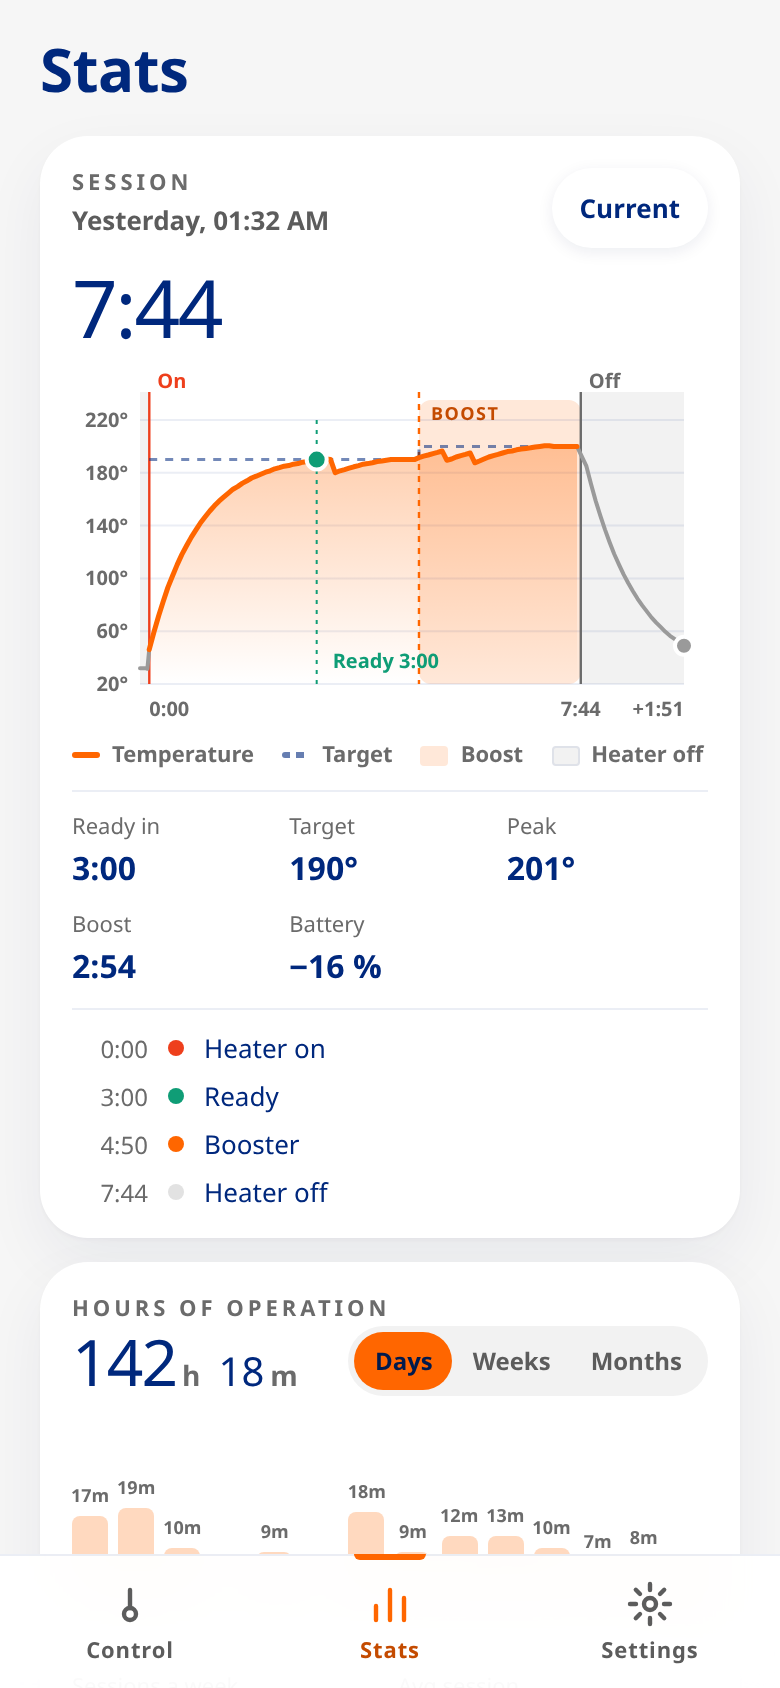
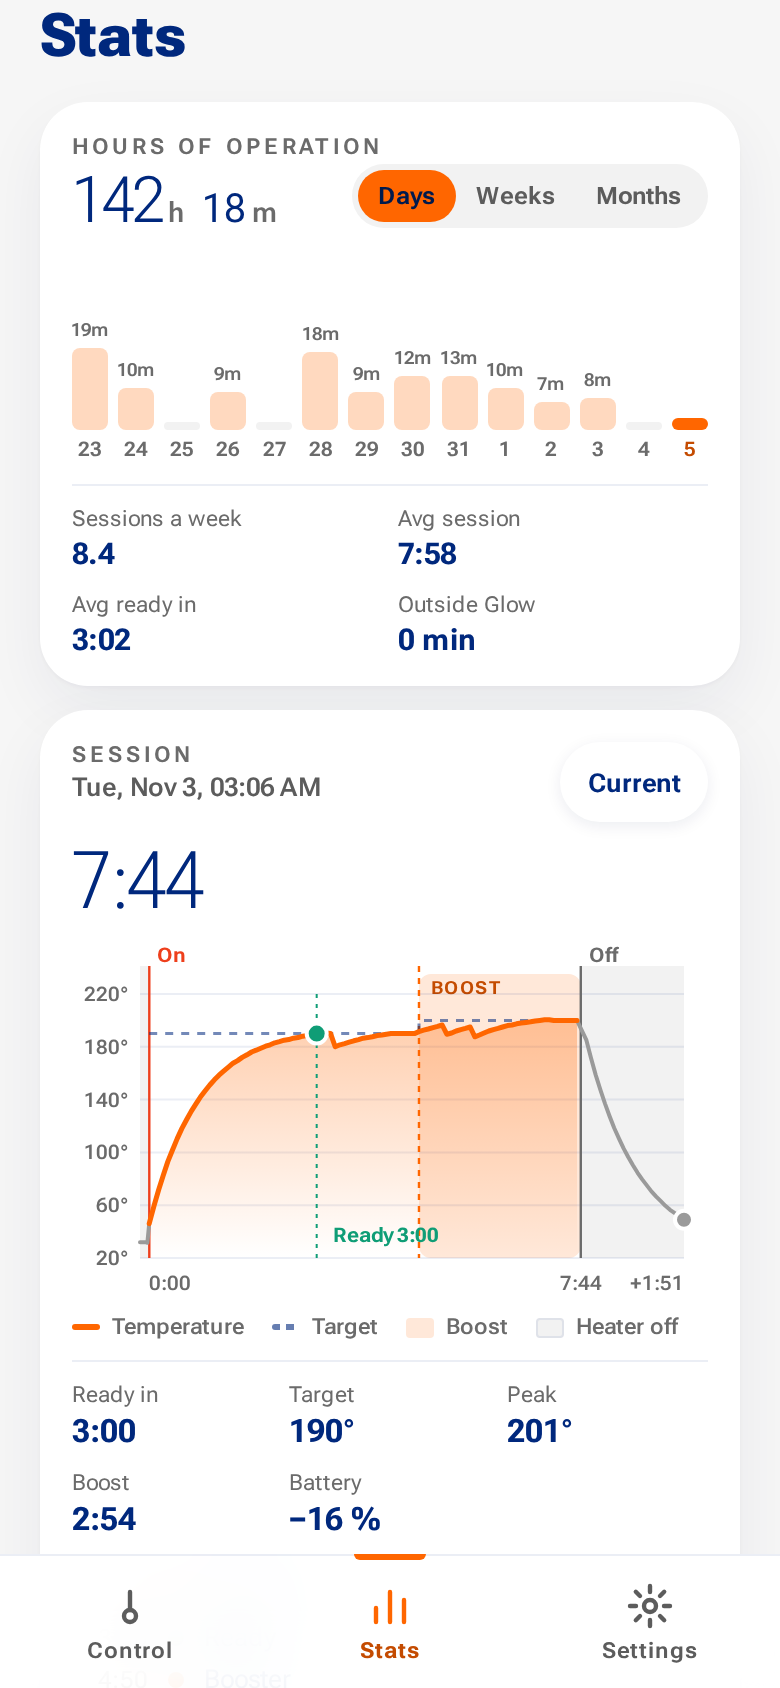
Stats: Hours of operation first, the session below it
A session picked from the history scrolls its card into view instead of the page top.

diff --git a/src/screens/Stats.svelte b/src/screens/Stats.svelte
@@ -130,6 +130,7 @@
     return { before: part(0, a), on: part(a, b), after: part(b, values.length - 1) };
   }
 
+  // The session card, below Hours of operation: a session picked from the history scrolls it into view.
   let top: HTMLElement | undefined = $state();
   function open(s: SessionSummary) {
     tap();
@@ -139,50 +140,11 @@
 </script>
 
 <div class="screen">
-  <header class="rise" bind:this={top}>
+  <header class="rise">
     <h1>Stats</h1>
   </header>
 
-  {#if shown}
-    <section class="card session rise d1">
-      <div class="s-head">
-        <div>
-          <div class="label">{running ? 'Current session' : shown.id === sessions.list[0]?.id ? 'Last session' : 'Session'}</div>
-          <div class="s-when">{dayName(shown.id)}, {when(shown.id)}</div>
-        </div>
-        {#if picked !== null && sessions.active}
-          <button type="button" class="pill press" onclick={() => { tap(); picked = null; }}>Current</button>
-        {:else if status}
-          <div class="chip" class:ready={status === 'Ready'}><span></span>{status}</div>
-        {/if}
-      </div>
-      <div class="big num">{mmss(lengthOf(shown, usage.now))}</div>
-
-      <SessionChart summary={shown} {detail} {unit} {running} />
-
-      <div class="facts num">
-        <div><span>Ready in</span><strong>{readyAtOnce(shown) ? 'At once' : shown.readySec === null || shown.joined ? '–' : mmss(shown.readySec)}</strong></div>
-        <div><span>Target</span><strong>{deg(shown.target)}</strong></div>
-        {#if shown.live}<div><span>Peak</span><strong>{deg(shown.peak)}</strong></div>{/if}
-        <div><span>Boost</span><strong>{boostSec(shown) >= 1 ? mmss(boostSec(shown)) : '–'}</strong></div>
-        {#if used(shown) !== null}<div><span>Battery</span><strong>{used(shown) ? `−${used(shown)} %` : '–'}</strong></div>{/if}
-        {#if shown.airSec}<div><span>Air</span><strong>{mmss(shown.airSec)}</strong></div>{/if}
-      </div>
-
-      <ol class="events num">
-        {#each events as e, i (i)}
-          <li class={e.tone}><span class="e-t">{mmss(e.t)}</span><span class="e-dot"></span>{e.text}</li>
-        {/each}
-      </ol>
-    </section>
-  {:else}
-    <section class="card nothing rise d1">
-      <Icon name="flame" size={28} color="var(--orange)" />
-      <p>Turn the heater on and the session shows up here, with its temperature over time.</p>
-    </section>
-  {/if}
-
-  <section class="card hours rise d2">
+  <section class="card hours rise d1">
     <div class="label">Hours of operation</div>
     <div class="h-top">
       {#if parts}
@@ -215,6 +177,46 @@
       <div><span>Outside Glow</span><strong>{outside === null ? '–' : usageTime(outside)}</strong></div>
     </div>
   </section>
+
+
+  {#if shown}
+    <section class="card session rise d2" bind:this={top}>
+      <div class="s-head">
+        <div>
+          <div class="label">{running ? 'Current session' : shown.id === sessions.list[0]?.id ? 'Last session' : 'Session'}</div>
+          <div class="s-when">{dayName(shown.id)}, {when(shown.id)}</div>
+        </div>
+        {#if picked !== null && sessions.active}
+          <button type="button" class="pill press" onclick={() => { tap(); picked = null; }}>Current</button>
+        {:else if status}
+          <div class="chip" class:ready={status === 'Ready'}><span></span>{status}</div>
+        {/if}
+      </div>
+      <div class="big num">{mmss(lengthOf(shown, usage.now))}</div>
+
+      <SessionChart summary={shown} {detail} {unit} {running} />
+
+      <div class="facts num">
+        <div><span>Ready in</span><strong>{readyAtOnce(shown) ? 'At once' : shown.readySec === null || shown.joined ? '–' : mmss(shown.readySec)}</strong></div>
+        <div><span>Target</span><strong>{deg(shown.target)}</strong></div>
+        {#if shown.live}<div><span>Peak</span><strong>{deg(shown.peak)}</strong></div>{/if}
+        <div><span>Boost</span><strong>{boostSec(shown) >= 1 ? mmss(boostSec(shown)) : '–'}</strong></div>
+        {#if used(shown) !== null}<div><span>Battery</span><strong>{used(shown) ? `−${used(shown)} %` : '–'}</strong></div>{/if}
+        {#if shown.airSec}<div><span>Air</span><strong>{mmss(shown.airSec)}</strong></div>{/if}
+      </div>
+
+      <ol class="events num">
+        {#each events as e, i (i)}
+          <li class={e.tone}><span class="e-t">{mmss(e.t)}</span><span class="e-dot"></span>{e.text}</li>
+        {/each}
+      </ol>
+    </section>
+  {:else}
+    <section class="card nothing rise d2">
+      <Icon name="flame" size={28} color="var(--orange)" />
+      <p>Turn the heater on and the session shows up here, with its temperature over time.</p>
+    </section>
+  {/if}
 
   {#if sessions.list.length}
     <section class="history rise d3">
@@ -260,7 +262,6 @@
     display: flex;
     align-items: center;
     height: 44px;
-    scroll-margin-top: calc(var(--sat) + 12px);
   }
   h1 {
     margin: 0;
@@ -270,6 +271,7 @@
     letter-spacing: -0.01em;
   }
   .session {
+    scroll-margin-top: calc(var(--sat) + 12px);
     padding: 16px 16px 14px;
     display: flex;
     flex-direction: column;
